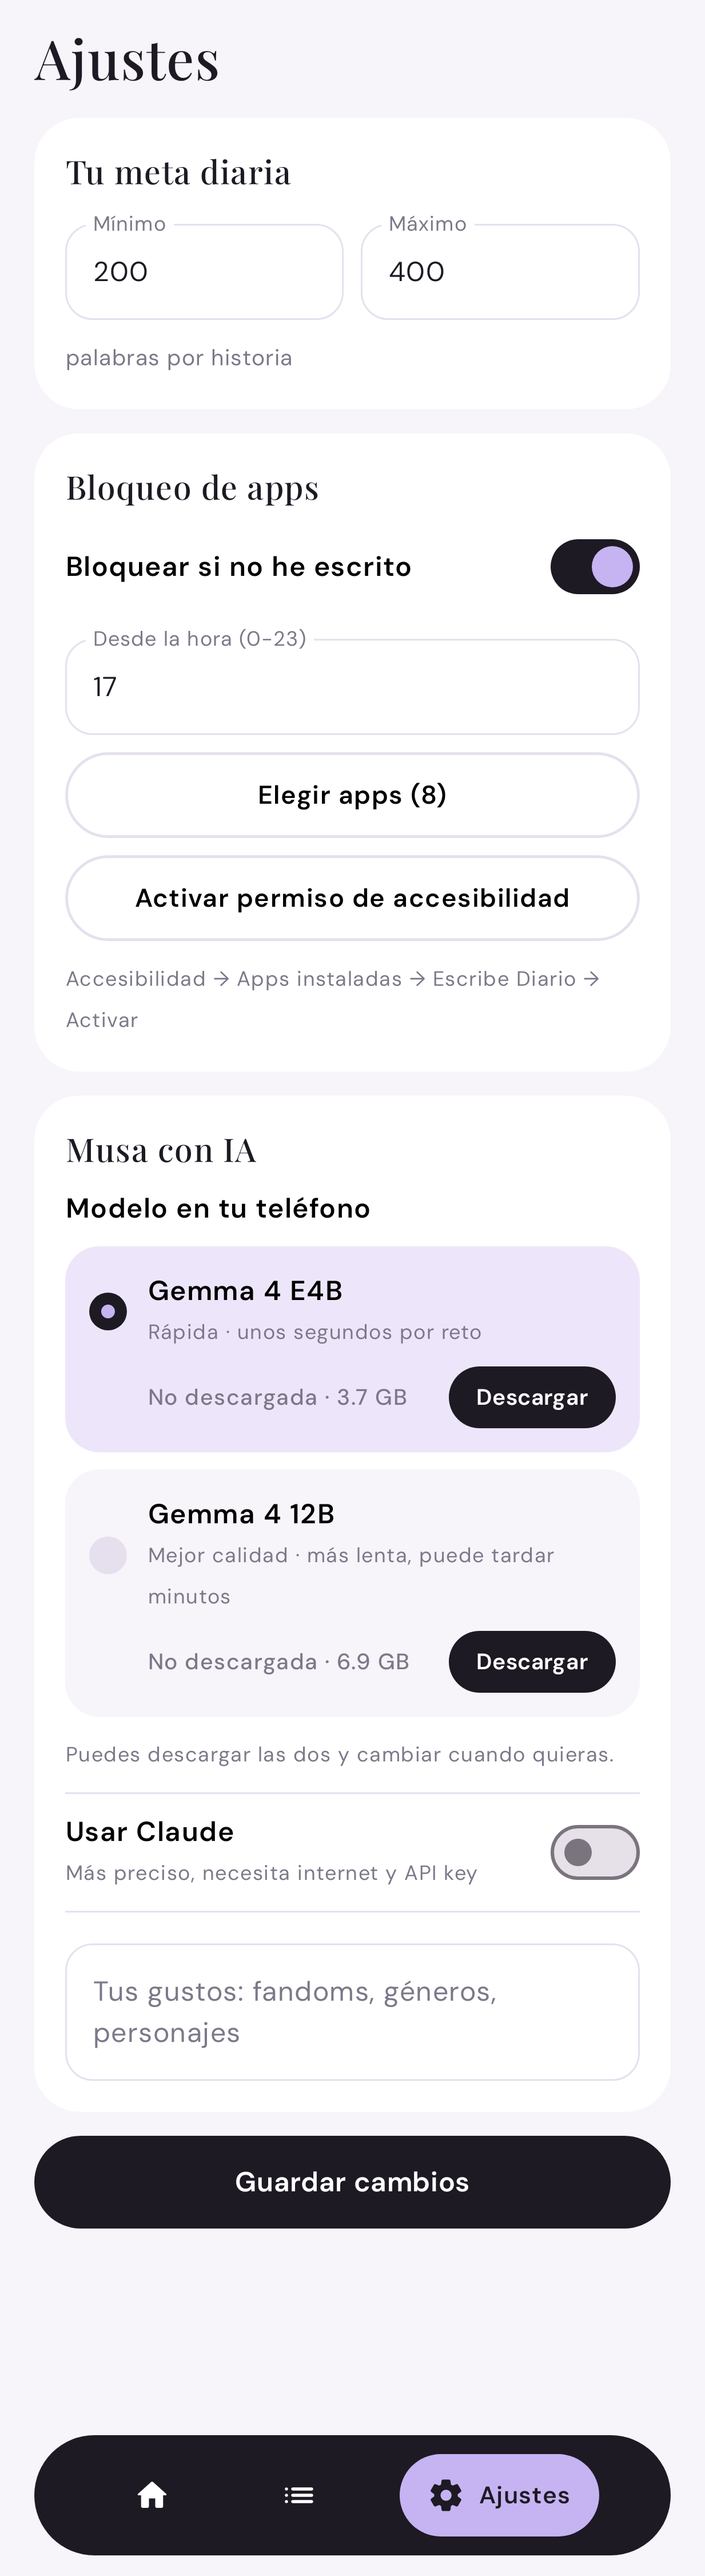
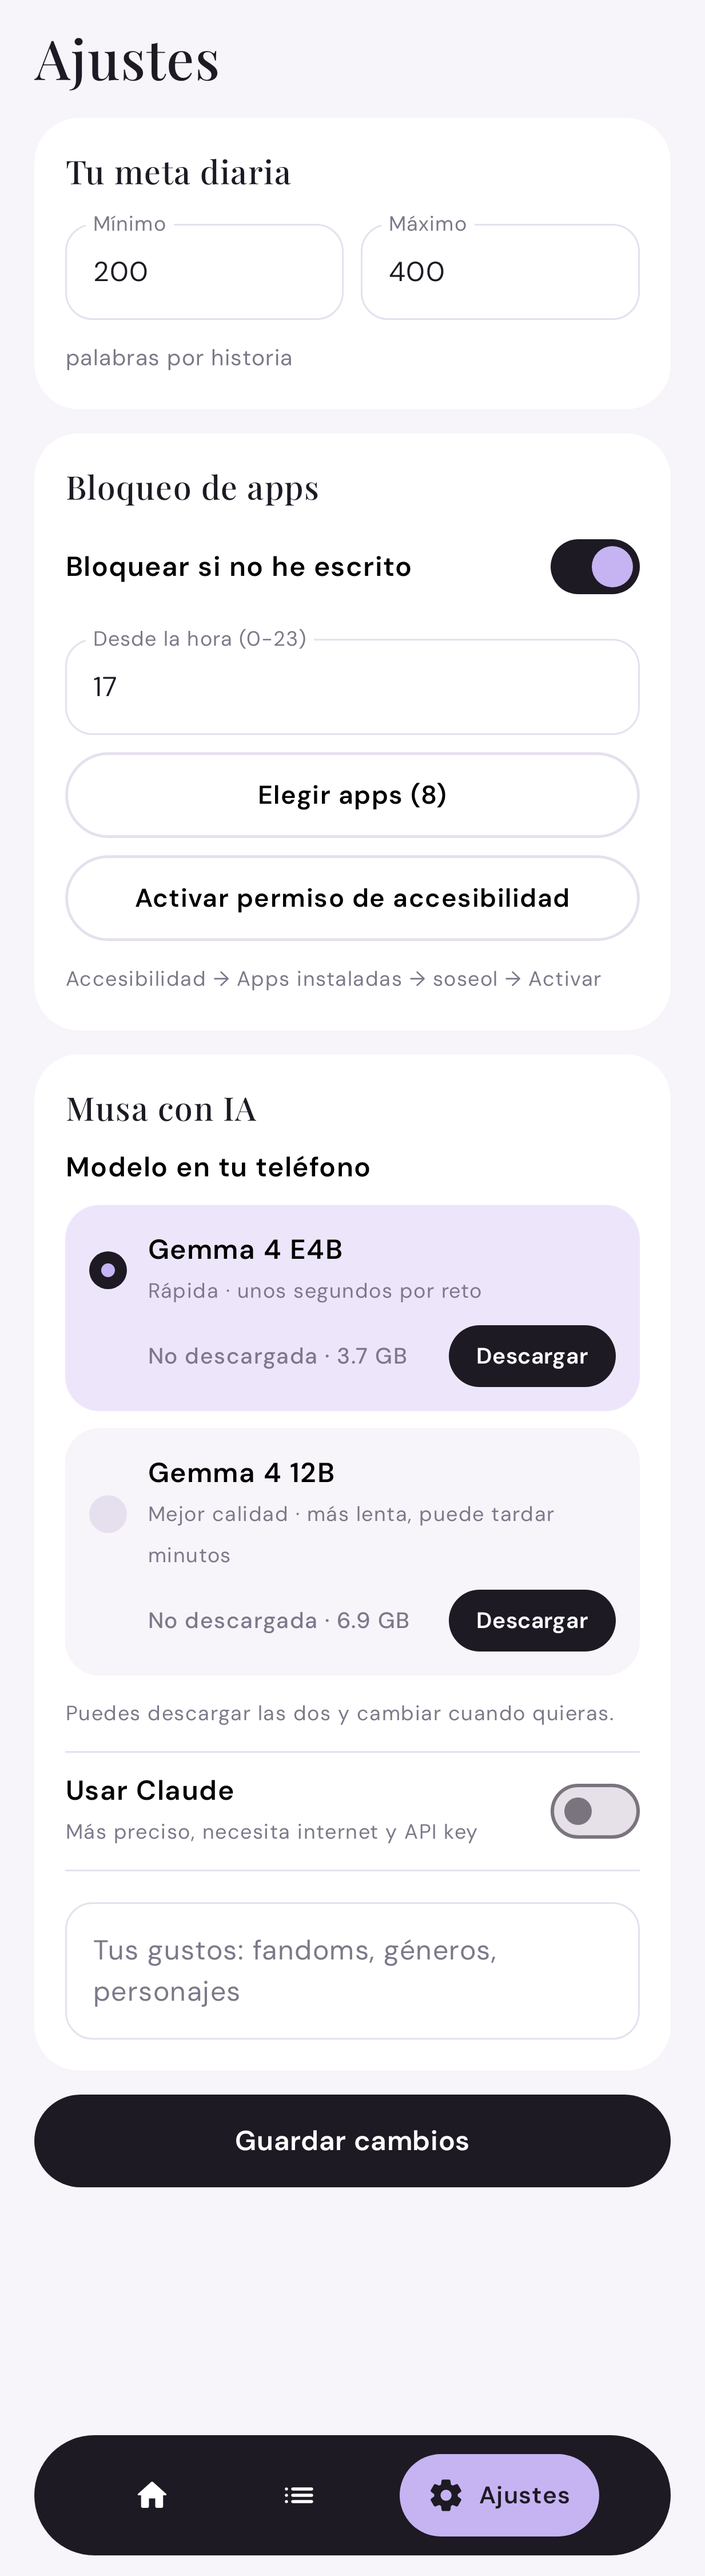
Renombra la app a soseol

diff --git a/app/src/main/java/com/escribe/diario/Screens.kt b/app/src/main/java/com/escribe/diario/Screens.kt
@@ -520,7 +520,7 @@ fun SettingsScreen(store: Store, tick: Int = 0, onDownload: (ModelSpec) -> Unit 
             OutlinePill("Activar permiso de accesibilidad", {
                 ctx.startActivity(Intent(Settings.ACTION_ACCESSIBILITY_SETTINGS).addFlags(Intent.FLAG_ACTIVITY_NEW_TASK))
             })
-            Text("Accesibilidad → Apps instaladas → Escribe Diario → Activar", color = C.Muted, fontSize = 12.sp)
+            Text("Accesibilidad → Apps instaladas → soseol → Activar", color = C.Muted, fontSize = 12.sp)
         }
         Section("Musa con IA") {
             Text("Modelo en tu teléfono", fontWeight = FontWeight.SemiBold)

diff --git a/README.md b/README.md
@@ -1,4 +1,4 @@
-# Escribe Diario
+# soseol
 
 App de Android para escribir un poquito cada día. Una IA que corre **en tu teléfono** te da un reto (una palabra de otro idioma, una frase o un tema) y escribes entre un mínimo y un máximo de palabras.
 
@@ -30,4 +30,4 @@ O desde la terminal:
 ./gradlew installDebug
 ```
 
-Para el bloqueo de apps: Ajustes de Android → Accesibilidad → Escribe Diario → Activar.
+Para el bloqueo de apps: Ajustes de Android → Accesibilidad → soseol → Activar.
